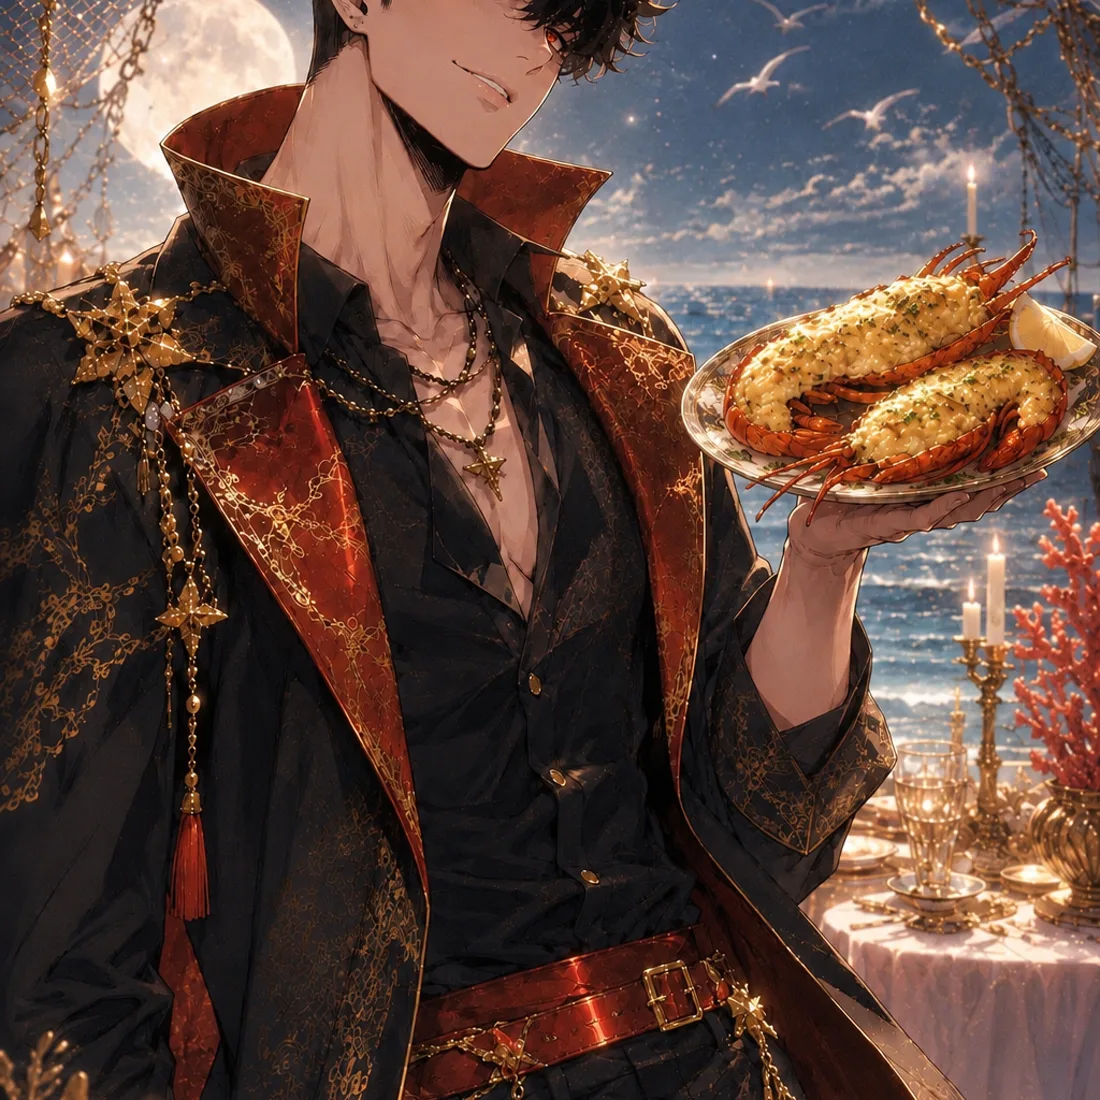
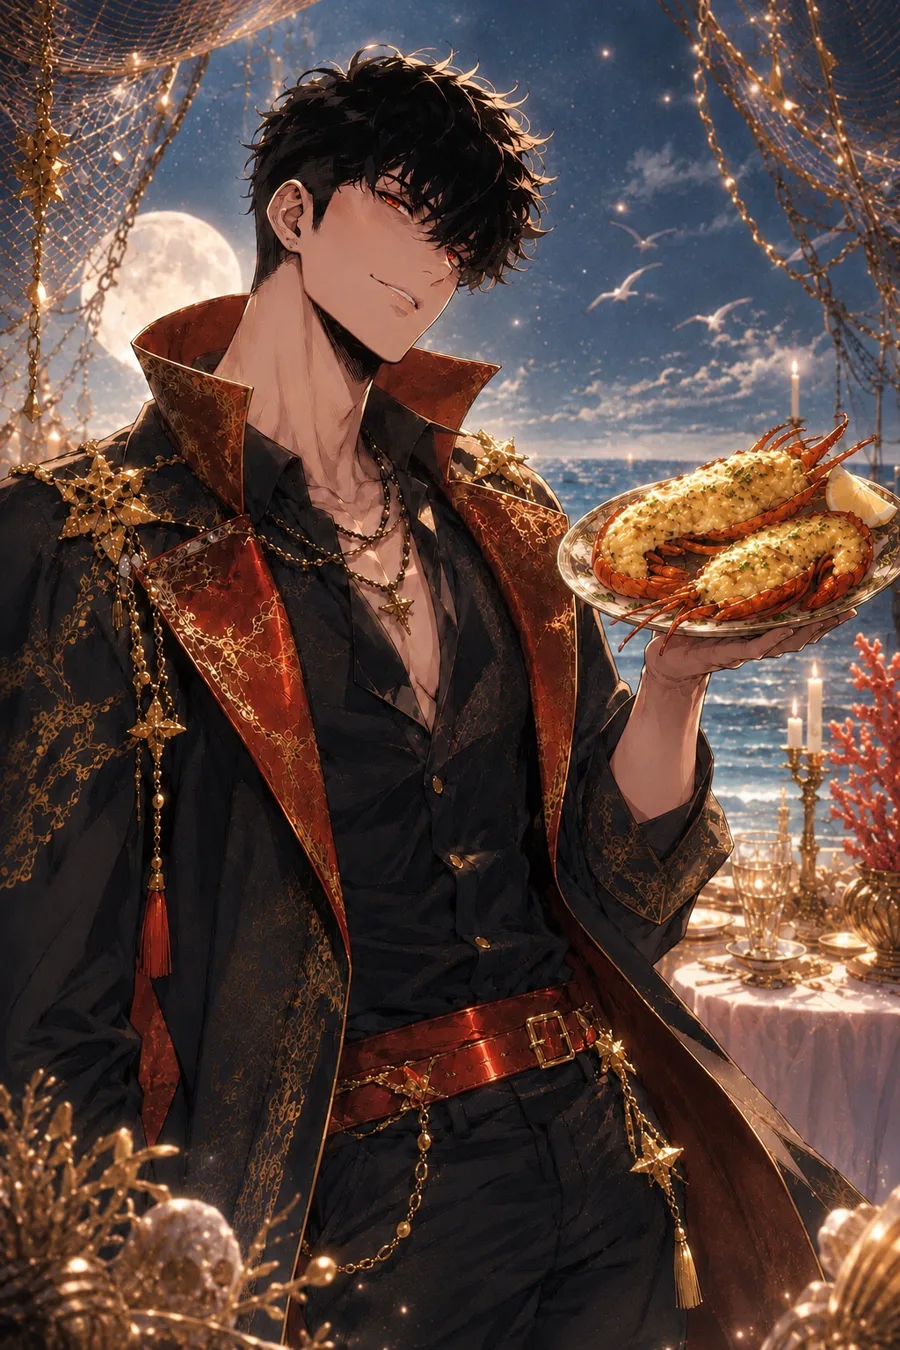
修復角色卡面圖裁切錯位：改用2:3比例重新輸出，不再先裁成正方形
原始素材本來就是接近2:3直式構圖，前次轉檔誤裁成1100x1100正方形，
CSS卡面框(aspect-ratio:2/3)再用object-fit:cover硬套，等於裁兩次，
橫向裁掉約1/3內容導致人物錯位/被切邊。改成直接輸出900x1350(2:3)，
跟卡面框比例一致，裁切幅度降到最低。

SW v240：圖片為靜態資源，同前次規則bump版本強制客戶端換新快取。

diff --git a/sw.js b/sw.js
@@ -1,4 +1,4 @@
-const CACHE = 'vocatopia-v239';
+const CACHE = 'vocatopia-v240';
 const ASSETS = ['/', '/index.html', '/styles.css', '/script.js', '/auth.js', '/manifest.json', '/fonts/Yozai-Regular-subset.woff2', '/game/grammar.js', '/game/grammar.css', '/game/tetris/characters.js', '/game/tetris/gacha.js', '/game/tetris/engine.js', '/game/tetris/game.js', '/game/tetris/vocab.js', '/game/tetris/quiz.js', '/game/tetris/sfx.js', '/game/tetris/tetris.css'];
 
 self.addEventListener('install', e => {
